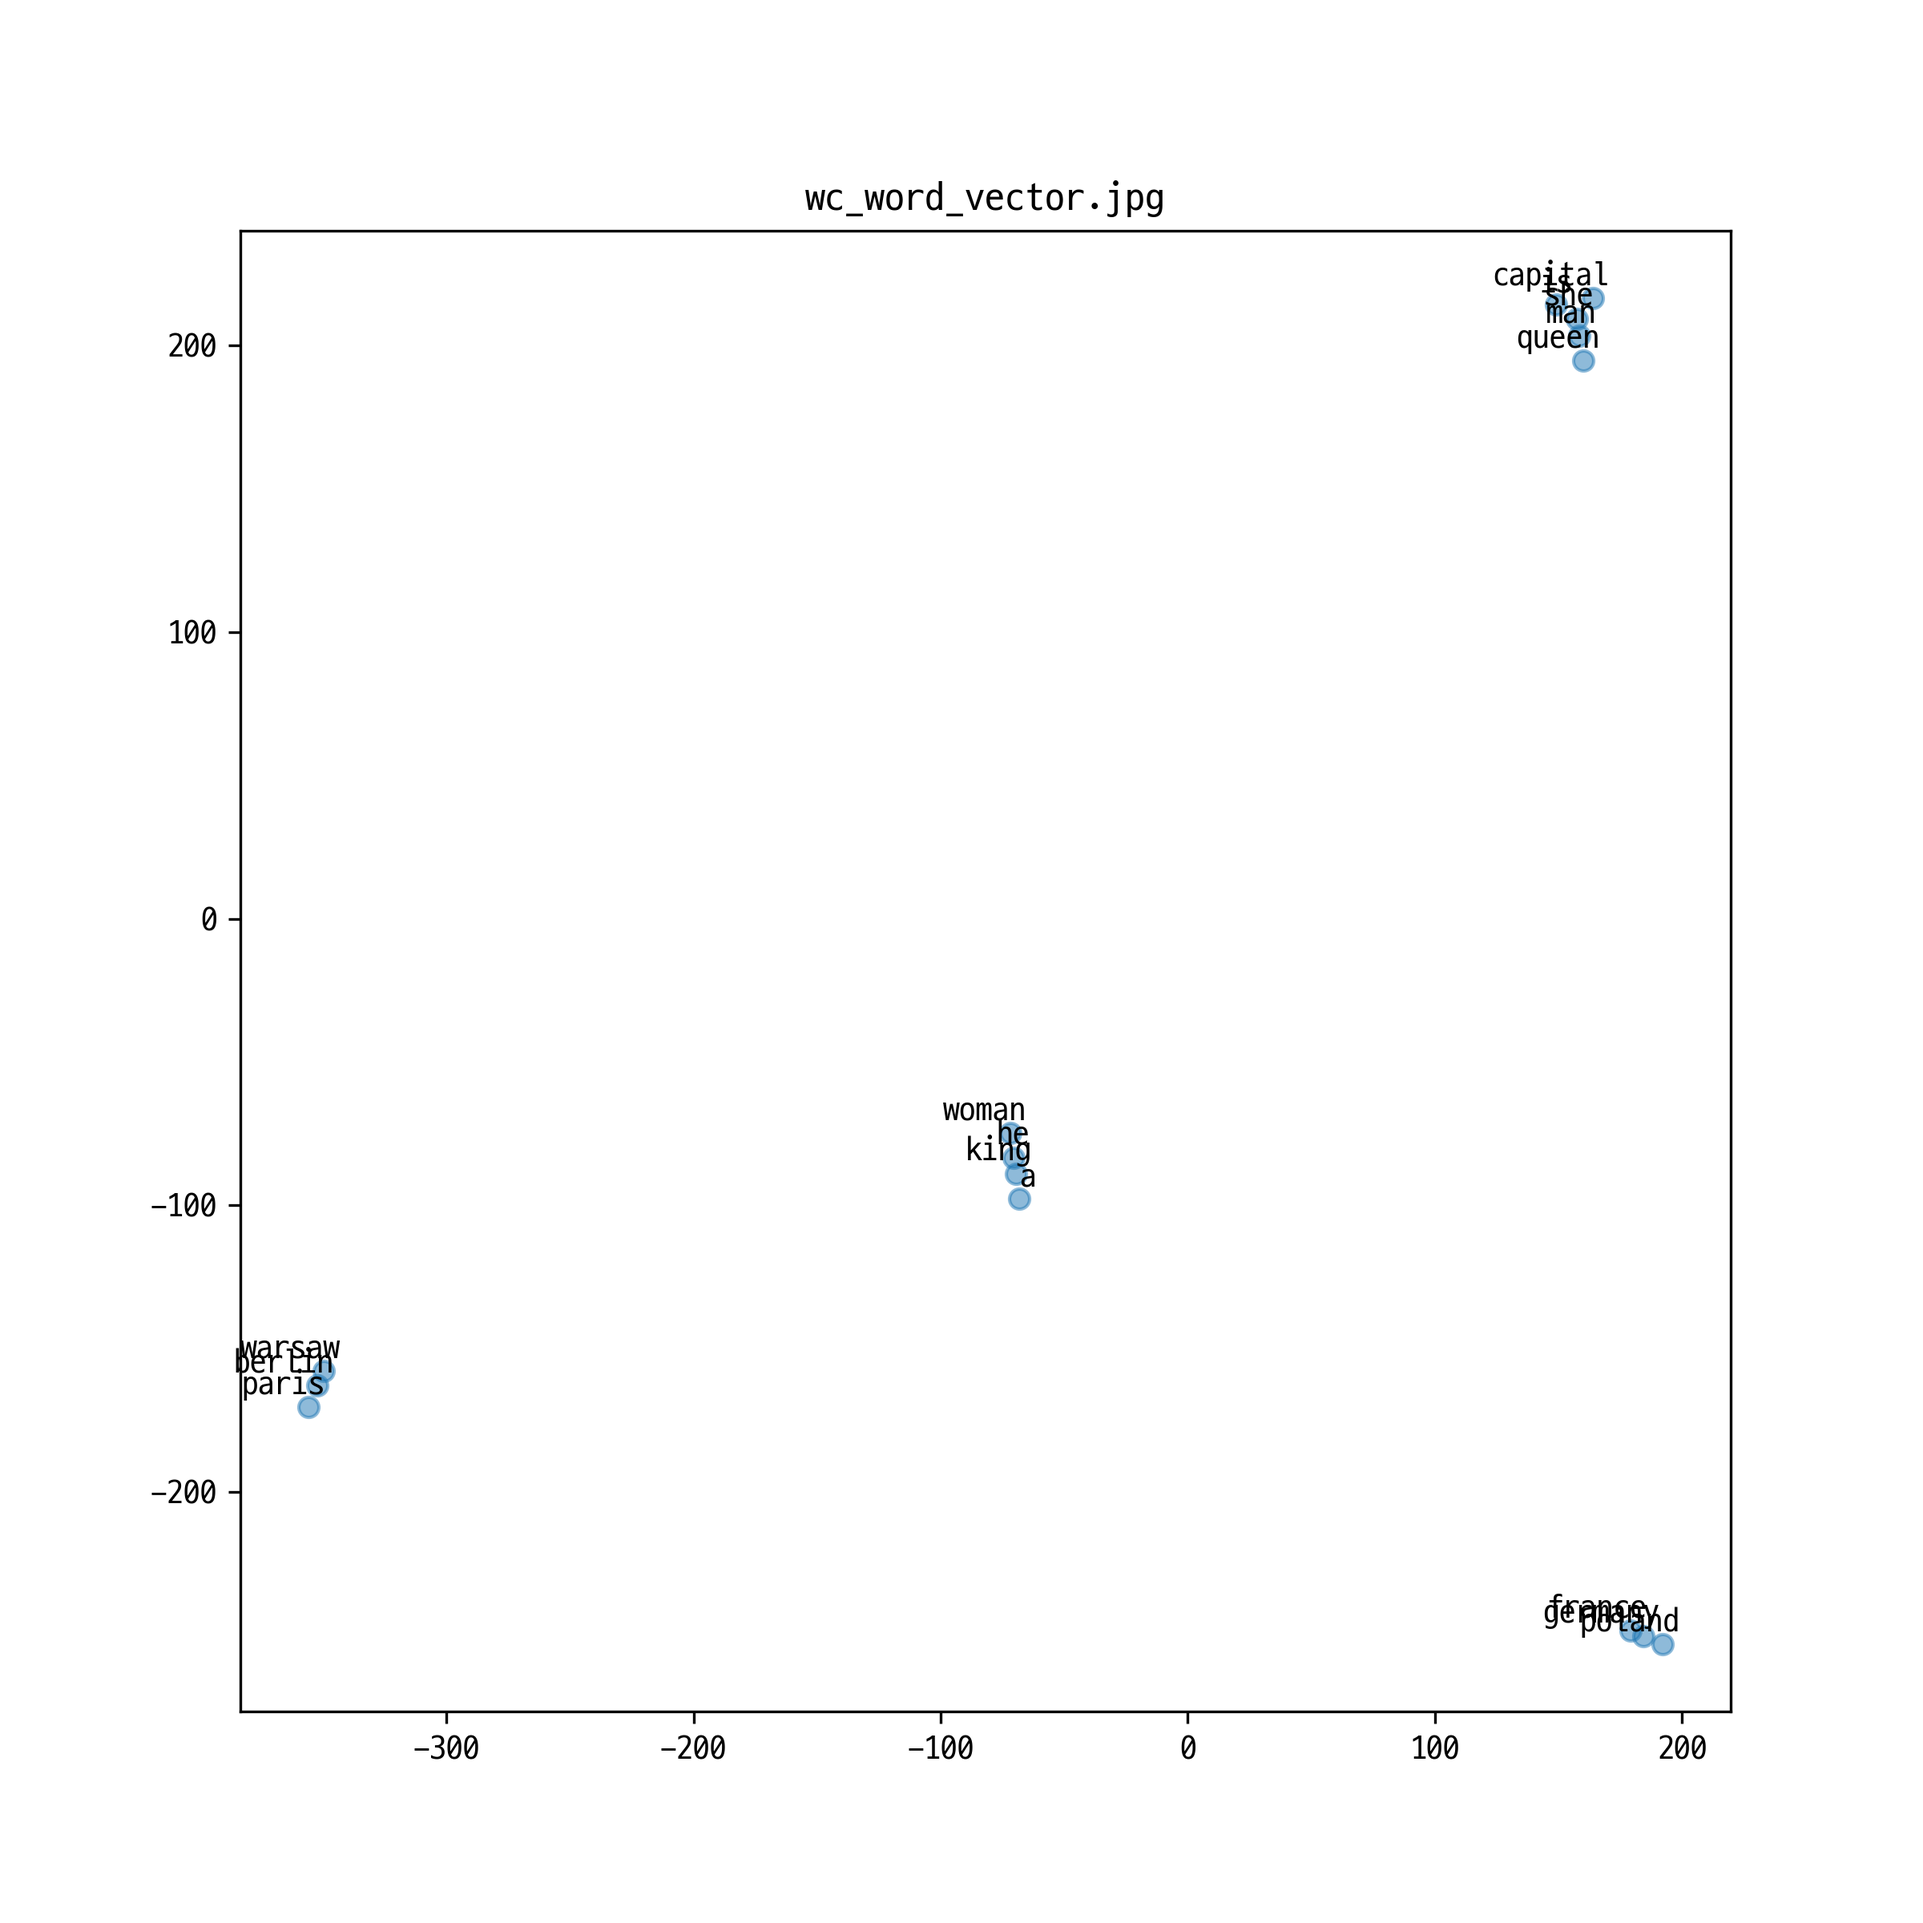
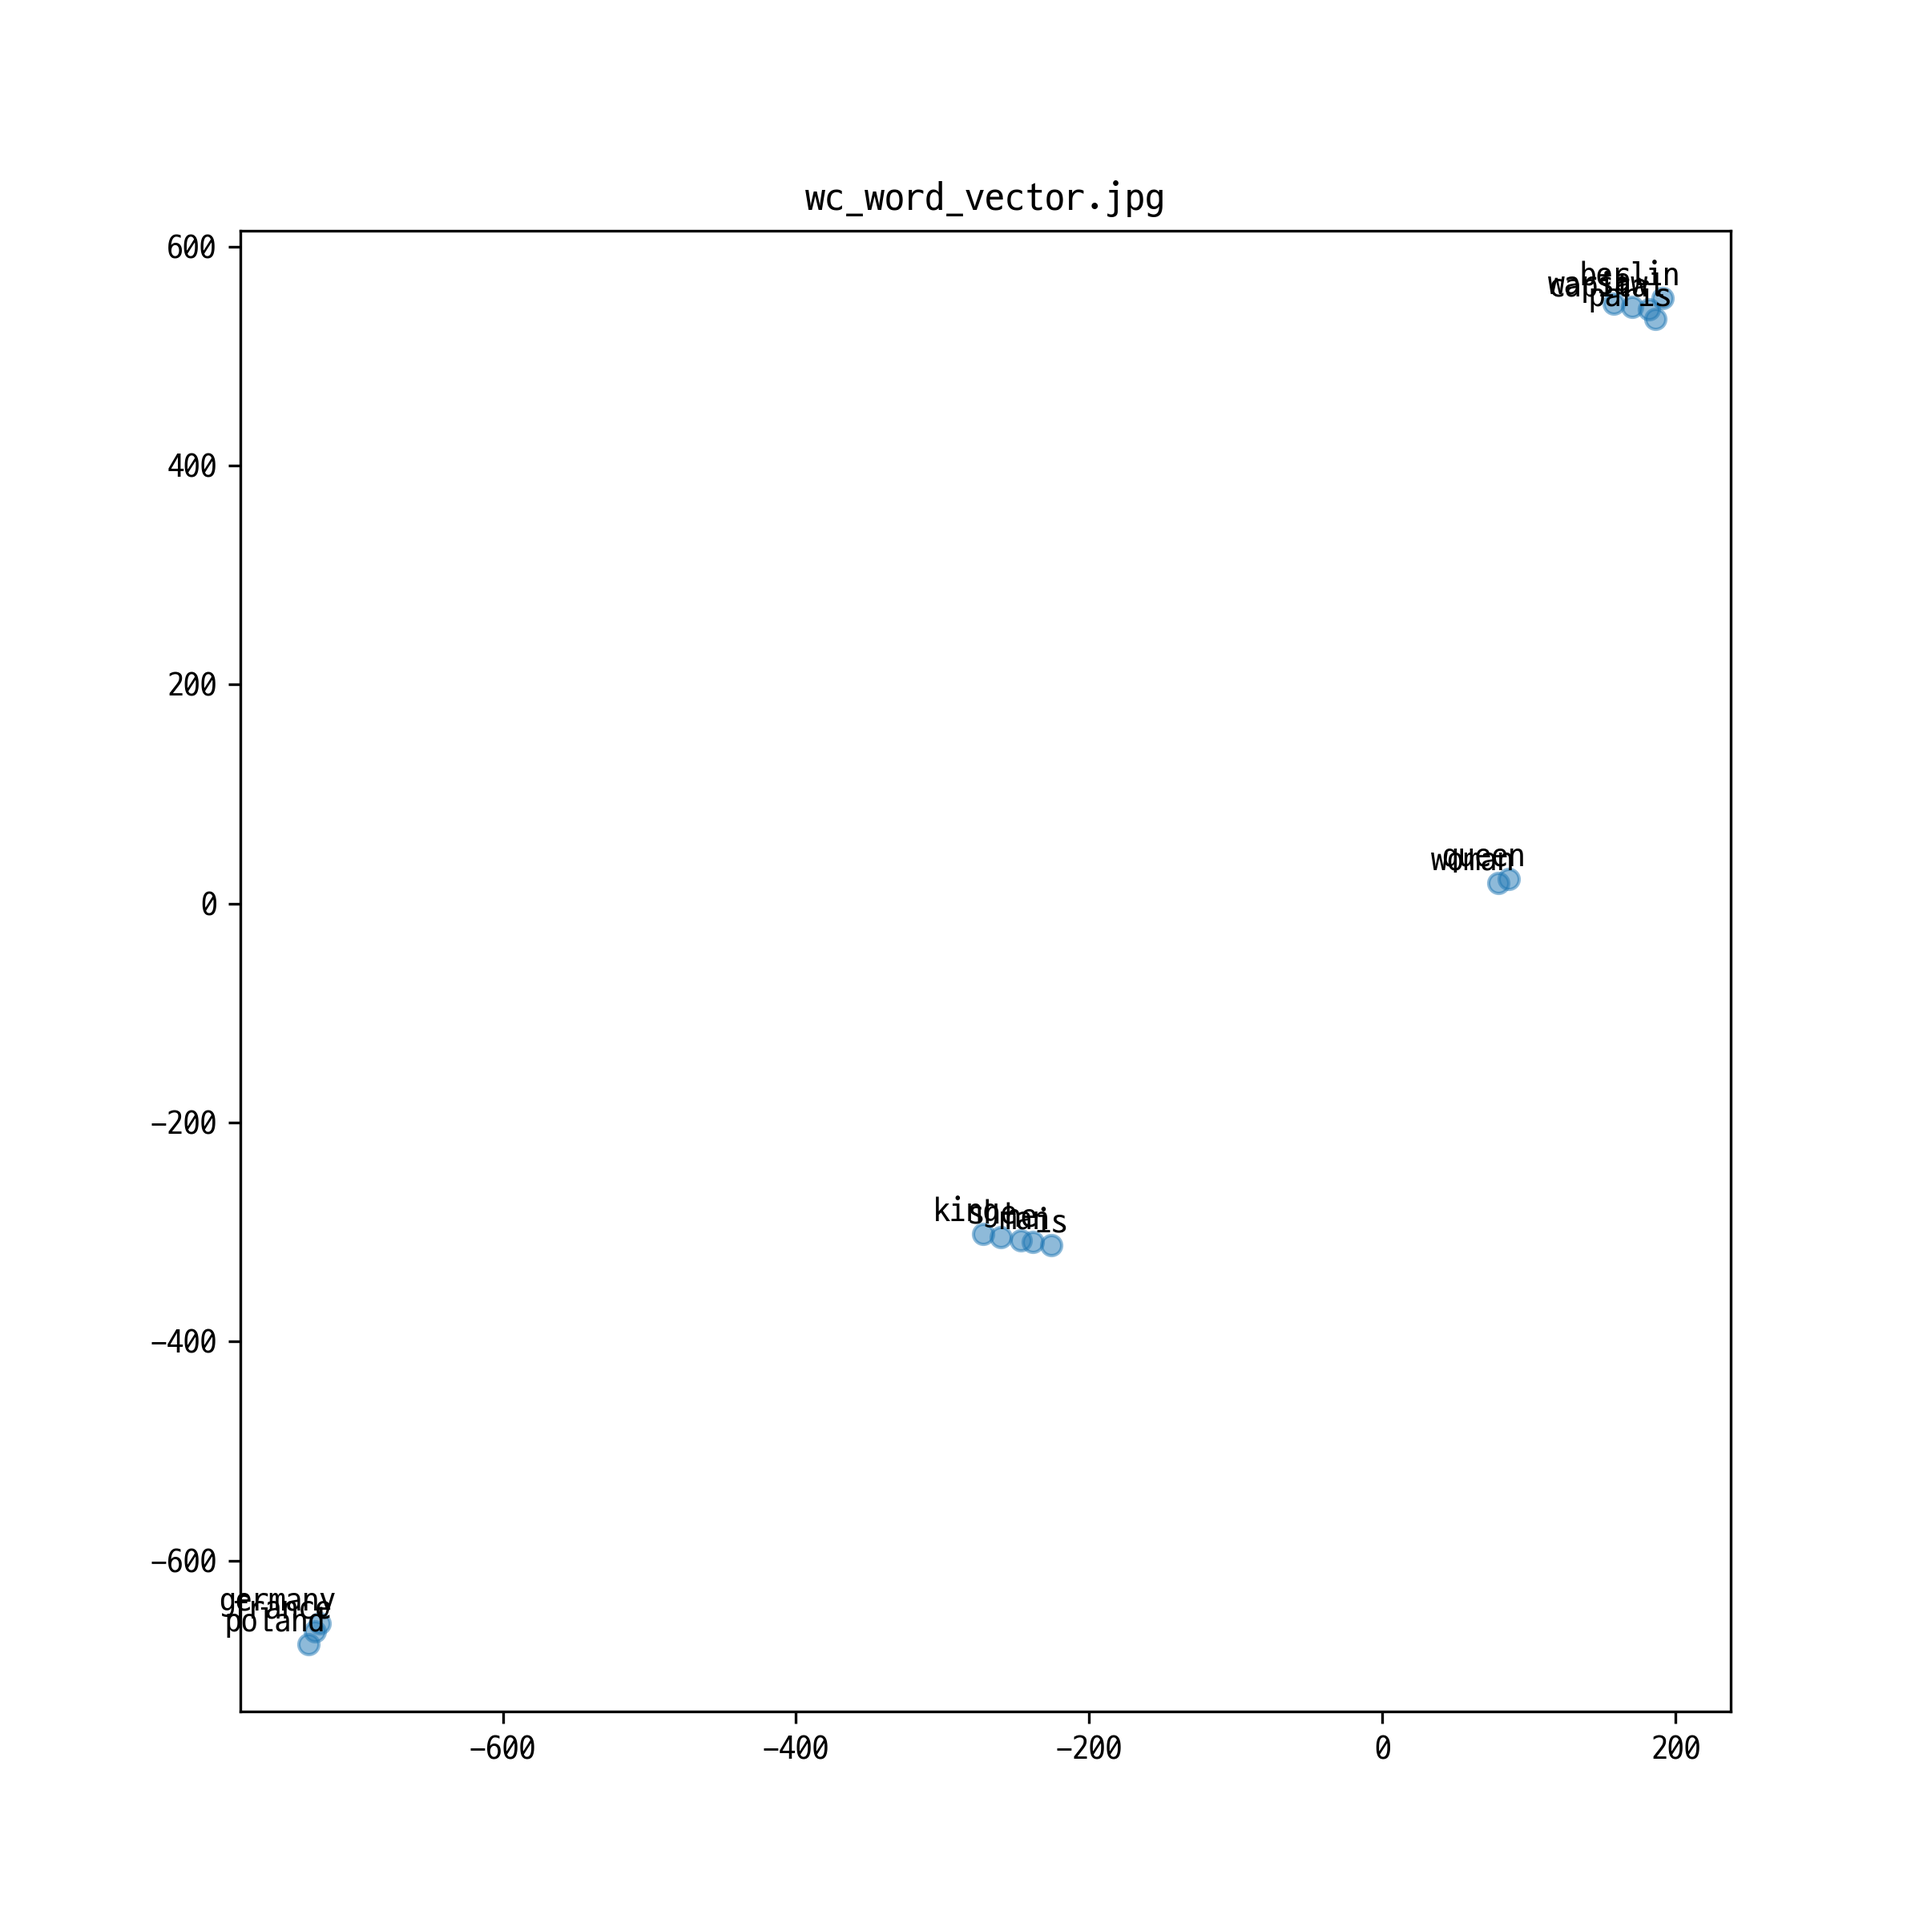
v0.0.3: applied xavier initializer

diff --git a/main.py b/main.py
@@ -1,15 +1,10 @@
-from typing import *
 from itertools import chain
 
-import numpy as np
-import pandas as pd
 import torch
-from torch.autograd import Variable
 import torch.nn.functional as F
-
 from nltk import word_tokenize
-from nltk.corpus import stopwords
 from nltk.stem import WordNetLemmatizer
+from torch.autograd import Variable
 
 from functions import *
 
@@ -61,7 +56,7 @@ class BagOfWords:
         self.pairs_flat = list(chain.from_iterable(self.pairs_matrix))
 
 
-class Word2Vec:
+class TrainWord2Vec:
     def __init__(self):
         pass
 
@@ -80,20 +75,22 @@ class Word2Vec:
 
     def train(self, emb_dimension=30, epochs=10, lr=0.001, continue_last=False):
         if not continue_last:
-            self.W_c = Variable(torch.randn(emb_dimension, self.vocab_size), requires_grad=True).float()
-            self.W_o = Variable(torch.randn(self.vocab_size, emb_dimension), requires_grad=True).float()
+            self.W_c = Variable(torch.nn.init.xavier_normal(torch.empty(emb_dimension, self.vocab_size)),
+                                requires_grad=True).float()
+            self.W_o = Variable(torch.nn.init.xavier_normal(torch.empty(self.vocab_size, emb_dimension)),
+                                requires_grad=True).float()
 
         for epoch in range(epochs):
             loss_val = 0
             for center_i, context_i in self.bow.pairs_flat:
-                x = Variable(self.get_input_layer(center_i)).float()
+                layer_input = Variable(self.get_input_layer(center_i)).float()
                 y_true = Variable(torch.from_numpy(np.array([context_i])).long())
 
-                z1 = torch.matmul(self.W_c, x)
-                z2 = torch.matmul(self.W_o, z1)
+                layer_fc1 = torch.matmul(self.W_c, layer_input)
+                layer_fc2 = torch.matmul(self.W_o, layer_fc1)
+                layer_output = F.log_softmax(layer_fc2, dim=0)
 
-                log_softmax = F.log_softmax(z2, dim=0)
-                loss = F.nll_loss(log_softmax.view(1, self.vocab_size), y_true)
+                loss = F.nll_loss(layer_output.view(1, self.vocab_size), y_true)
                 loss_val += loss.item()
                 loss.backward()
 
@@ -106,13 +103,15 @@ class Word2Vec:
                 print(f"Loss at this epoch {epoch}: {loss_val / self.train_size}")
 
 
-w2v = Word2Vec()
-w2v.prepare_corpus(corpus)
-w2v.train(emb_dimension=10, epochs=1000, continue_last=False, lr=0.01)
-wo_arr = np.array(w2v.W_o.data.view(-1, 10).data)
-wo_df = pd.DataFrame(wo_arr, index=w2v.bow.unique_tokens)
-wc_arr = np.array(w2v.W_c.data.T.data)
-wc_df = pd.DataFrame(wc_arr, index=w2v.bow.unique_tokens)
+wv_trainer = TrainWord2Vec()
+wv_trainer.prepare_corpus(corpus)
+emb_dim = 5
+wv_trainer.train(emb_dimension=emb_dim, epochs=1000, continue_last=False, lr=0.01)
+wo_arr = np.array(wv_trainer.W_o.data.view(-1, emb_dim).data)
+wo_df = pd.DataFrame(wo_arr, index=wv_trainer.bow.unique_tokens)
+wc_arr = np.array(wv_trainer.W_c.data.T.data)
+wc_df = pd.DataFrame(wc_arr, index=wv_trainer.bow.unique_tokens)
+
 
 def get_cos_sim_score(wv, k1, k2):
     return round(cos_sim(wv.loc[k1, :], wv.loc[k2, :]), 3)
@@ -124,7 +123,18 @@ def cos_sim(a, b):
 
 get_cos_sim_score(wc_df, 'king', 'queen')
 
-for perp in range(10):
-    tsne_plot(w2v.bow.unique_tokens, wc_arr, filename=f'wc_word_vector.jpg', perplexity=perp)
+for perp in range(1, 5):
+    tsne_plot(wv_trainer.bow.unique_tokens, wc_arr, filename=f'wc_word_vector.jpg', perplexity=perp)
 
 print()
+
+"""
+인사이트
+    - 지금으로선 wo보다 wc가 의미를 더 잘 파악하는 것 같다. 이유는 잘 모르겠다.
+    - 적은 텍스트로도 의미를 어느정도 뽑아낸다.
+    - normal보다 xavier가 조금 더 나은 것 같지만 절대적인지는 모르겠다. 어짜피 활성화함수가 없어서
+    - optimizer는 시도를 해봐야겠다
+    - 이렇게 무식하게 다 도는 방법 말고 없나?
+        - skipgram 이니 한번에 context words 많이 아므로 그것 이용하는 방
+TODO: optimizer, 한국어 토크나이징, most_similar 구현, plotting 자동화(perp 찾기), 좋은 dim 찾 
+"""
